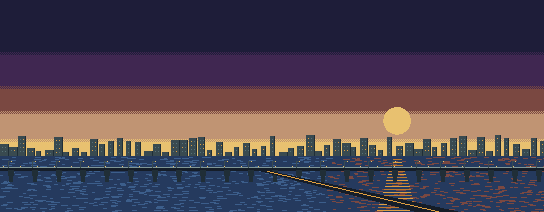
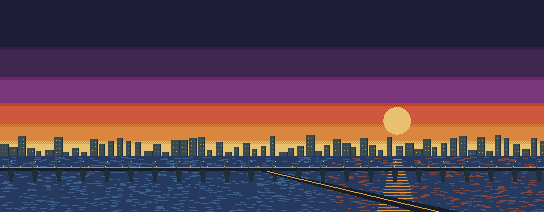
Лагос, проверка глазами: часы в 3D больше не закрыты ободом, в 2D не сидят на голове; закатное небо без коричневых полос; свет на левой стене у окна, а не над дверью; борода без диагональных полос; карточка жюри в тон английской

diff --git a/src/game/story/Jury.tsx b/src/game/story/Jury.tsx
@@ -128,7 +128,10 @@ export function Jury(p: Props) {
         <button type="button" className="jr-step jr-en" onClick={() => p.onOpen(lib(lagos))}>
           <Face sc={lagos} />
           <span className="jr-step-name">🇳🇬 Lagos: экспорт и партнёрство</span>
-          <span className="jr-step-note">Вторая командировка · финальный уровень: переговоры на английском с носителем, {lagos.opponent.character.name}. Разбор и подсказки — по-русски.</span>
+          <span className="jr-step-note">
+            вторая командировка · финальный уровень: переговоры на английском с носителем языка {lagos.opponent.character.name}, {lagos.turnLimit} реплик; разбор и
+            подсказки — по-русски
+          </span>
         </button>
 
         <div className="jr-grid">

diff --git a/src/game/world3d/rooms/lagos.ts b/src/game/world3d/rooms/lagos.ts
@@ -47,7 +47,8 @@ function buildLagos(): RoomBuild {
   }
 
   // Clock in the central pier: the engine sets the hands to the 17:00 meeting clock.
-  cyl(0.19, 0.19, 0.035, 24, 'c20', CLOCK.x, CLOCK.y, CLOCK.z, 0, PI / 2)
+  // Rim sits behind the face: its front cap must stay below z + 0.025 or it hides the dial and hands.
+  cyl(0.19, 0.19, 0.03, 24, 'c20', CLOCK.x, CLOCK.y, CLOCK.z - 0.015, 0, PI / 2)
   soup.add(new CircleGeometry(0.18, 24), at(CLOCK.x, CLOCK.y, CLOCK.z + 0.025), 'clock', 0)
   const handMat = kit.mat(null, false, 0x341c27)
   const hand = (length: number, width: number) => {

diff --git a/tools/art/room_lagos.py b/tools/art/room_lagos.py
@@ -35,8 +35,8 @@ def fabric(w=64, h=64):
 def panorama(w=544, h=212):
     rng = np.random.default_rng(1810)
     t = Tex(w, h, 30)
-    # Violet blue to copper sunset, stepped/dithered in the shared palette.
-    for a,b,c in [(0,.26,30),(.26,.42,31),(.42,.54,13),(.54,.67,15),(.67,.74,23)]:
+    # Violet blue to orange sunset, stepped/dithered in the shared palette; no wall/teak browns in the sky.
+    for a,b,c in [(0,.24,30),(.24,.38,31),(.38,.5,32),(.5,.6,28),(.6,.68,29),(.68,.74,23)]:
         t.rect(0,int(h*a),w-1,int(h*b),c)
         if a: t.checker(0,int(h*a)-3,w-1,int(h*a)+2,c)
     t.ellipse(w*.73,h*.57,h*.065,h*.065,23)
@@ -120,8 +120,9 @@ def surfaces():
         t.rect(0,t.h-31,w-1,t.h-30,22)
         # Warm window light on the side walls, progressively fading towards the door.
         if name in ('left','right'):
-            for x in range(w//2):
-                if x%3: t.rect(x,9,x,t.h-33,17 if x<w//5 else 16)
+            # Left wall UVs run front -> back, right wall back -> front: light always at the window end.
+            for x in range(w//5):
+                if x%3: t.rect(w-1-x if name=='left' else x,9,w-1-x if name=='left' else x,t.h-33,17)
         out['wall_'+name]=t
     t=Tex(round(2*HW/S),round((FRONT-BACK)/S),13)
     for y in range(0,t.h,10):
@@ -153,7 +154,8 @@ def scene2d():
     for x in (12,57,93,97,135,178):bg.rect(x,4,x+2,77,20)
     bg.rect(10,4,181,5,22);bg.rect(10,76,181,78,13)
     bg.rect(91,4,100,78,12)
-    bg.ellipse(96,18,6,6,23);bg.ellipse(96,18,5,5,45);bg.line([(96,14),(96,18),(99,20)],18)
+    # Small clock high on the pier: the 96x96 face starts at y=21 and must not wear it as a crown.
+    bg.ellipse(96,9,5,5,23);bg.ellipse(96,9,4,4,45);bg.line([(96,6),(96,9),(98,10)],18)
     # Plants frame rather than cover the subject.
     for x in (3,164):
         bg.poly([(x+4,80),(x+18,80),(x+16,93),(x+6,93)],20)

diff --git a/tools/art/lagos.py b/tools/art/lagos.py
@@ -35,7 +35,7 @@ def spec():
         xs, ys = grid()
         b = f.mask() & (ys > 49) & ((np.abs(xs - CX) > f.hw(ys) - 3) | (ys > 59))
         paint(c, b, band(shade_ellipsoid(42, 57, 20, 12), [0.35, 0.7], [36, 37, 39]))
-        paint(c, b & (ys > 60) & ((xs.astype(int) + ys.astype(int)) % 7 == 0), 40)
+        paint(c, b & (ys > 60) & ((3 * xs.astype(int) + 5 * ys.astype(int)) % 11 == 0), 38)  # sparse stipple, no diagonal stripes
 
     def moustache(c, P, emotion):
         put(c, 42, 51, ['..gggggggg..', '.Gg......gG.'], {'g': 37, 'G': 36})

diff --git a/docs/lagos/DESIGN.md b/docs/lagos/DESIGN.md
@@ -62,7 +62,7 @@ colors:
 
 `src/content/lagos-recordings.ts` задаёт 21 будущую запись: вступление, 6 fillers и 14 реакций. После кастинга нужно создать файлы по указанным путям и прослушать каждый; здесь голос и готовность записей не подтверждаются.
 
-**Границы проверки.** Тесты описывают размеры PNG и листа кадров, ссылки на ассеты, сборку комнаты без WebGL-рендера и выход. Они не подтверждают внешний вид 3D в работающем приложении. Runtime-осмотр 3D в рамках этой работы не проводился.
+**Границы проверки.** Тесты описывают размеры PNG и листа кадров, ссылки на ассеты, сборку комнаты без WebGL-рендера и выход. Внешний вид проверен глазами 18.10.2026 в работающем приложении: 3D на 1440×900 и 390×844, 2D, уход Адебайо в дверь (`scripts/exit-e2e.ts --case lagos`, в том числе `--phone`), карточка в хабе жюри; снимки в `~/Arena-materials/final/lagos-voice/shots/`.
 
 ## Do's and Don'ts
 
